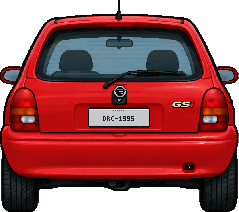
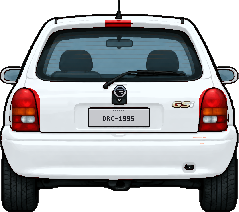
Auditoria (2): traseira do Corsário na cor do carro, facho não ilumina o chão visto pelas janelas laterais
Claude-Session: https://claude.ai/code/session_01MLD9VR7gkmY4w6a9beZcp6

diff --git a/src/nightlight.ts b/src/nightlight.ts
@@ -162,6 +162,12 @@ function beamShape(g: CanvasRenderingContext2D, w: number, cx: number, seen: num
     g.fill();
   };
   // perto do carro, abaixo do primeiro trecho de pista visível: continua o trapézio até o painel
+  // só o chão à frente: o que aparece pelas janelas laterais, abaixo da linha do painel, fica ao
+  // lado do carro, fora do facho
+  g.save();
+  g.beginPath();
+  g.rect(0, 0, w, seen + 6);
+  g.clip();
   // o alcance conta a partir do chão que aparece acima do capô/painel: num carro de painel alto
   // (o trecho perto fica escondido) o facho continua aparecendo à frente
   const d0 = Math.max(0, (road.find((p) => p.y < seen - 1)?.d ?? 0) - 6);
@@ -189,6 +195,7 @@ function beamShape(g: CanvasRenderingContext2D, w: number, cx: number, seen: num
     quad(cx, p.y + 0.5, cx, q.y - 0.5, wp * 0.7, wq * 0.7, a * 0.45);
     quad(cx, p.y + 0.5, cx, q.y - 0.5, wp * 0.42, wq * 0.42, a * 0.45);
   }
+  g.restore();
 }
 
 // luz de um poste: uma faixa de luz atravessando a pista inteira no trecho do poste (em degraus,

diff --git a/tools/ref/corsa_sprites.py b/tools/ref/corsa_sprites.py
@@ -78,6 +78,16 @@ def taillights(a):
                     a[y, x, :3] = (128, 12, 12) if (x + y) % 5 else (150, 20, 18)
 
 
+def white_body(a, m):
+    # a foto da traseira é de um carro vermelho; o Corsário é branco de lado e de frente: a lataria
+    # vira o mesmo branco levemente azulado, mantendo o sombreado (luminância relativa à média)
+    px = a[m][:, :3].astype(float)
+    L = px @ np.array([0.3, 0.59, 0.11])
+    base = np.array([224.0, 230.0, 234.0])
+    nl = np.clip(229 + (L - np.median(L)) * 1.1, 60, 252)
+    a[m, :3] = np.clip(base[None, :] * (nl / 229)[:, None], 0, 255).astype(np.uint8)
+
+
 def main():
     src, cars = sys.argv[1], sys.argv[2]
     for view in ('side', 'rear', 'front'):
@@ -120,6 +130,8 @@ def main():
             yy, xx = np.mgrid[0:H, 0:W]
             for cx, cy, rx, ry in LAMPS_FRONT:
                 m &= ((xx + 0.5 - cx) / rx) ** 2 + ((yy + 0.5 - cy) / ry) ** 2 > 1
+        if view == 'rear':
+            white_body(a, m)
         flatten(a, m, 10)
         outline(a)
         fix_glass(a, m, view)
